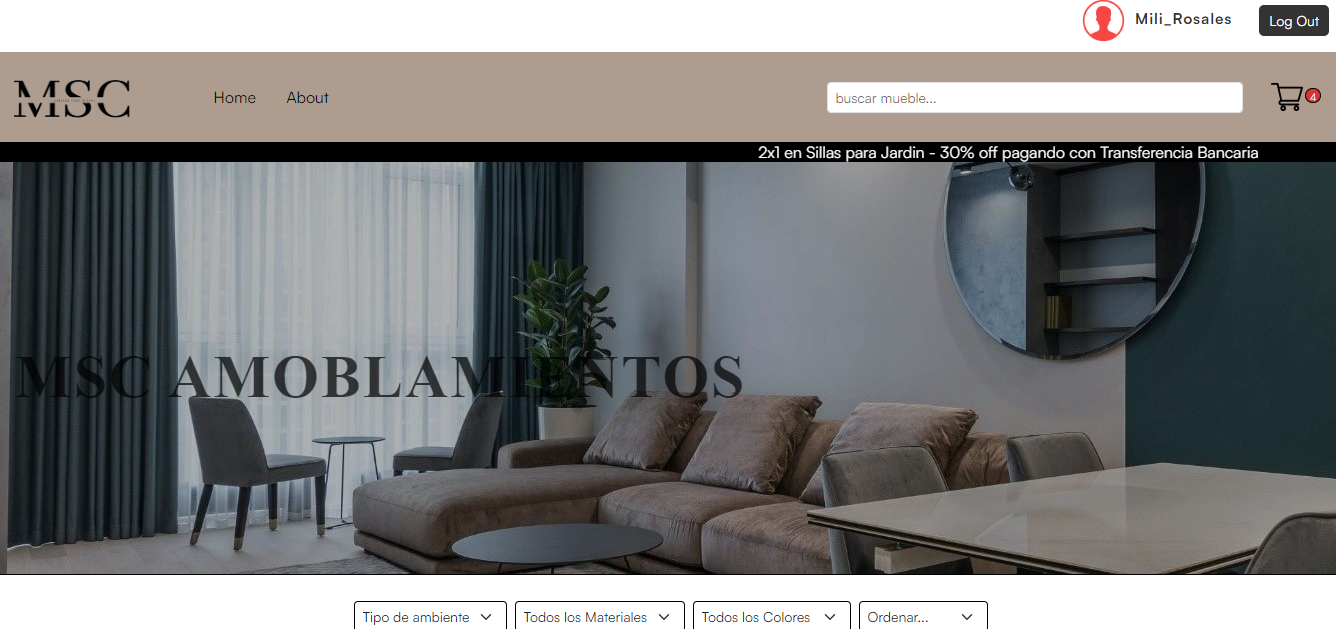
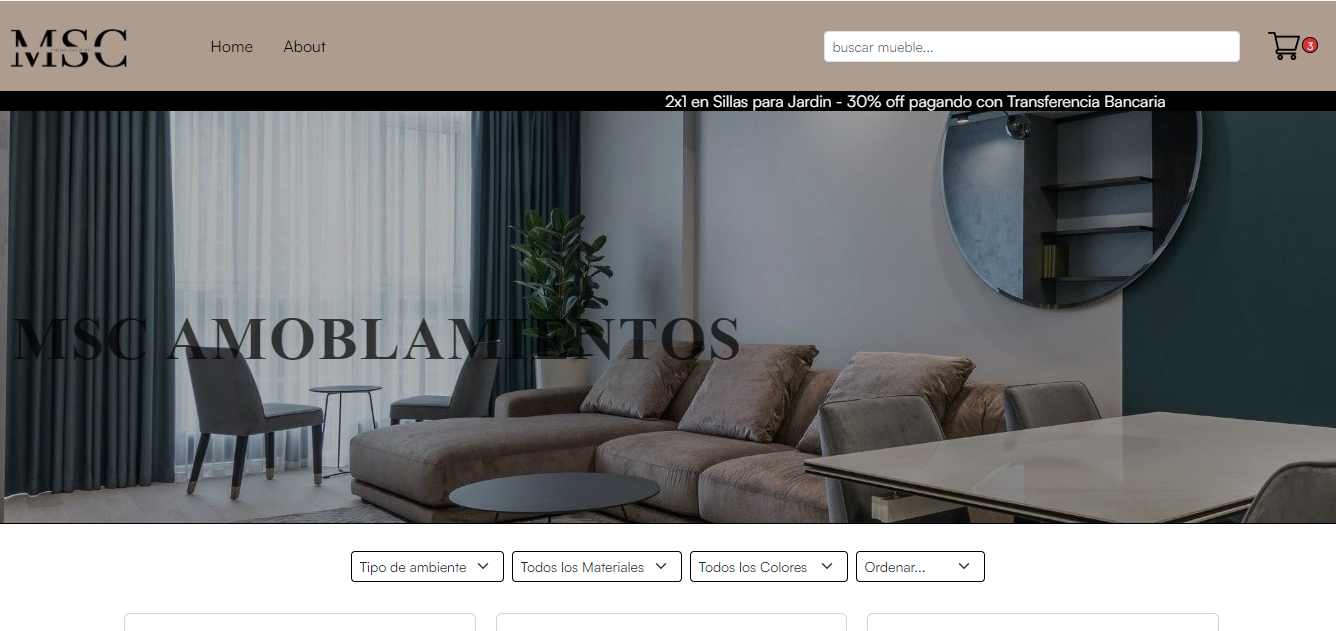
changes

diff --git a/src/components/Proyects/Proyects.jsx b/src/components/Proyects/Proyects.jsx
@@ -97,23 +97,21 @@ export default function Proyects() {
             <div className={style.ctnTextRick}>
               <div className={style.cntnTitleProyect}>
                 <p className={style.p}>
-                  <strong>MSC Amoblamientos</strong>
+                  <strong>MSC AMOBLAMIENTOS</strong>
                 </p>
               </div>
               <p className={style.textProyect}>
                 MSC API is a Full Stack group project developed during the Henry
                 program. It combines leading technologies to provide a unique
-                online furniture shopping experience.
-                <br />
-                On the frontend, uses React, Redux, and Bootstrap for a sleek
-                UI. The backend is powered by Express, managing a PostgreSQL
-                database with Sequelize.
+                online furniture shopping experience. On the frontend, uses
+                React, Redux, and Bootstrap for a sleek UI. The backend is
+                powered by Express, managing a PostgreSQL database with
+                Sequelize.
                 <br />
                 Auth0 ensures user security with various methods. Cloudinary
-                manages images. MSC API is a feature-rich e-commerce platform
-                for easy furniture search and purchase. Admins can oversee
-                products, materials, orders, and accounts through a robust
-                panel.
+                manages images. MSC is a feature-rich e-commerce platform for
+                easy furniture search and purchase. Admins can oversee products,
+                materials, orders, and accounts through a robust panel.
                 <br />
               </p>
 

diff --git a/src/components/Proyects/Proyects.module.scss b/src/components/Proyects/Proyects.module.scss
@@ -44,7 +44,7 @@
     // margin-top: 16px;
     font-size: 24px;
     text-align: center;
-    width: 200px;
+    width: 240px;
   }
 }
 

diff --git a/src/components/Home/Home.module.scss b/src/components/Home/Home.module.scss
@@ -98,7 +98,7 @@
 }
 
 .img {
-  height: 425px;
+  height: 455px;
   border: 1px solid rgb(0, 0, 0);
   margin-left: 47px;
 
